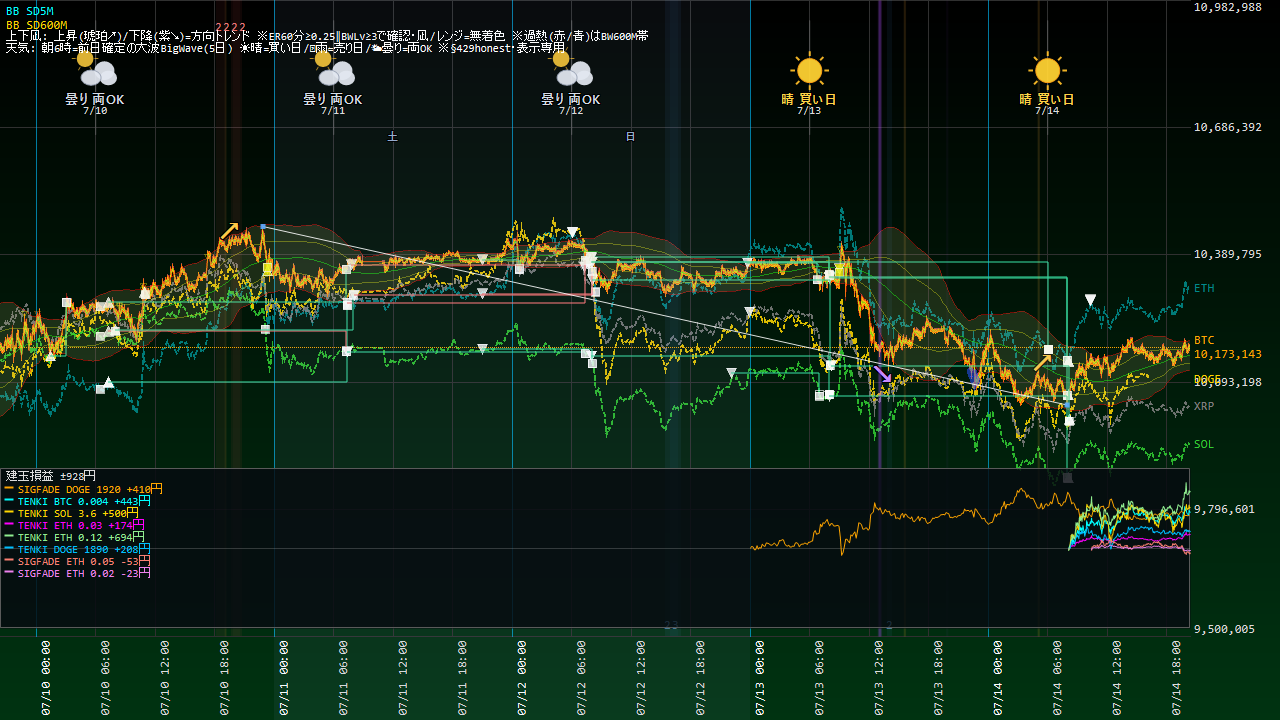
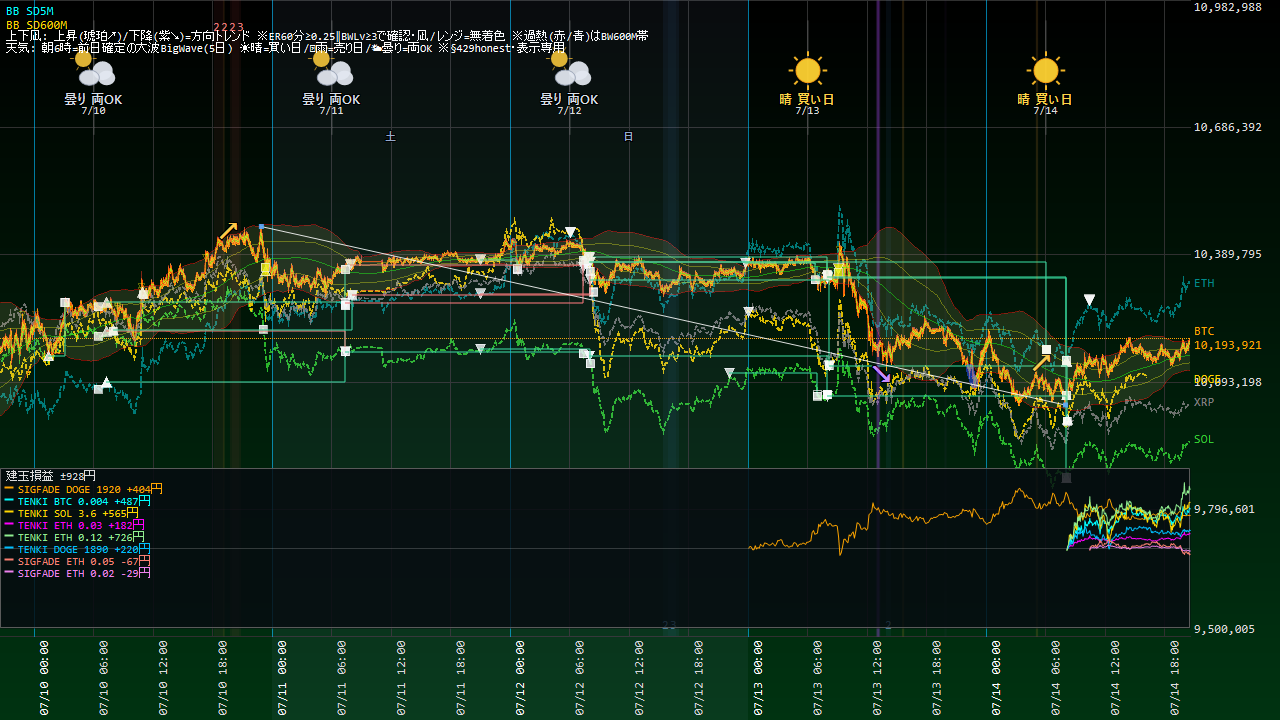
Coin100S 運用状況更新 07-14 20:35

diff --git a/coin100s-795hc4jfv8/status.html b/coin100s-795hc4jfv8/status.html
@@ -14,23 +14,23 @@ a{color:#60a5fa;text-decoration:none} a:hover{text-decoration:underline}
 .meta{color:#94a3b8;font-size:13px}</style>
 <script>setTimeout(function(){location.replace(location.pathname+"?t="+Date.now());},300000);</script></head><body>
 <h1>Coin100S 運用状況</h1>
-<p class="meta">スナップショット: 2026-07-14 20:28:47 / ページ生成: 2026-07-14 20:29:06(自動リロード・最新化) / <a href="index.html">目次へ</a></p>
+<p class="meta">スナップショット: 2026-07-14 20:34:47 / ページ生成: 2026-07-14 20:35:07(自動リロード・最新化) / <a href="index.html">目次へ</a></p>
 <div class="cards">
 <div class="card">建玉数<div class="v">8</div></div>
 <div class="card">本日損益<div class="v pos">+5,341円</div></div>
-<div class="card">評価損益<div class="v pos">+2,511円</div></div>
+<div class="card">評価損益<div class="v pos">+2,506円</div></div>
 </div>
 <h2>資産推移(直近30日)</h2>
-<img src="status_equity.png?t=2029" alt="equity">
+<img src="status_equity.png?t=2035" alt="equity">
 <h2>取引チャート(直近24h)</h2>
-<img src="status_chart.png?t=2029" alt="chart">
+<img src="status_chart.png?t=2035" alt="chart">
 <h2>建玉一覧</h2>
-<table><tr><th>銘柄</th><th>側</th><th>数量</th><th>建値</th><th>含損益</th><th>レッグ</th></tr><tr><td>BTC_JPY</td><td>BUY</td><td>0.004</td><td>@10,063,547</td><td>+501円</td><td>TENKI5D_REV_BTC</td></tr><tr><td>DOGE_JPY</td><td>BUY</td><td>1890</td><td>@12</td><td>+206円</td><td>TENKI5D_REV_DOGE</td></tr><tr><td>DOGE_JPY</td><td>SELL</td><td>1920</td><td>@12</td><td>+412円</td><td>SIGFADE_DOGE</td></tr><tr><td>ETH_JPY</td><td>SELL</td><td>0.02</td><td>@290,234</td><td>-36円</td><td>SIGFADE_ETH</td></tr><tr><td>ETH_JPY</td><td>SELL</td><td>0.05</td><td>@290,315</td><td>-86円</td><td>SIGFADE_ETH</td></tr><tr><td>ETH_JPY</td><td>BUY</td><td>0.12</td><td>@285,611</td><td>+768円</td><td>TENKI5D_REV_ETH</td></tr><tr><td>ETH_JPY</td><td>BUY</td><td>0.03</td><td>@285,605</td><td>+192円</td><td>TENKI5D_REV_ETH</td></tr><tr><td>SOL_JPY</td><td>BUY</td><td>3.6</td><td>@12,083</td><td>+554円</td><td>TENKI5D_REV_SOL</td></tr></table>
+<table><tr><th>銘柄</th><th>側</th><th>数量</th><th>建値</th><th>含損益</th><th>レッグ</th></tr><tr><td>BTC_JPY</td><td>BUY</td><td>0.004</td><td>@10,063,547</td><td>+525円</td><td>TENKI5D_REV_BTC</td></tr><tr><td>DOGE_JPY</td><td>BUY</td><td>1890</td><td>@12</td><td>+206円</td><td>TENKI5D_REV_DOGE</td></tr><tr><td>DOGE_JPY</td><td>SELL</td><td>1920</td><td>@12</td><td>+412円</td><td>SIGFADE_DOGE</td></tr><tr><td>ETH_JPY</td><td>SELL</td><td>0.02</td><td>@290,234</td><td>-29円</td><td>SIGFADE_ETH</td></tr><tr><td>ETH_JPY</td><td>SELL</td><td>0.05</td><td>@290,315</td><td>-68円</td><td>SIGFADE_ETH</td></tr><tr><td>ETH_JPY</td><td>BUY</td><td>0.12</td><td>@285,611</td><td>+726円</td><td>TENKI5D_REV_ETH</td></tr><tr><td>ETH_JPY</td><td>BUY</td><td>0.03</td><td>@285,605</td><td>+181円</td><td>TENKI5D_REV_ETH</td></tr><tr><td>SOL_JPY</td><td>BUY</td><td>3.6</td><td>@12,083</td><td>+554円</td><td>TENKI5D_REV_SOL</td></tr></table>
 <h2>実現決済履歴(直近15件・OrderId単位)</h2>
 <table><tr><th>決済時刻</th><th>レッグ</th><th>銘柄</th><th>実現損益</th></tr><tr><td>07-14 08:15</td><td>TENKI5D_REV_DOGE</td><td>DOGE</td><td class="pos">+267円</td></tr><tr><td>07-14 08:06</td><td>TENKI5D_REV_SOL</td><td>SOL</td><td class="pos">+1,011円</td></tr><tr><td>07-14 08:06</td><td>TENKI5D_REV_BTC</td><td>BTC</td><td class="pos">+819円</td></tr><tr><td>07-14 08:06</td><td>TENKI5D_REV_ETH</td><td>ETH</td><td class="pos">+826円</td></tr><tr><td>07-14 06:08</td><td>RELVALP_SELL</td><td>ETH</td><td class="pos">+89円</td></tr><tr><td>07-14 06:08</td><td>RELVALP_SELL</td><td>ETH</td><td class="pos">+357円</td></tr><tr><td>07-14 06:08</td><td>RELVALP_SELL</td><td>ETH</td><td class="pos">+314円</td></tr><tr><td>07-14 06:08</td><td>RELVALP_SELL</td><td>ETH</td><td class="pos">+328円</td></tr><tr><td>07-14 06:08</td><td>RELVALP_SELL</td><td>ETH</td><td class="pos">+331円</td></tr><tr><td>07-14 06:08</td><td>RELVALP_SELL</td><td>ETH</td><td class="pos">+337円</td></tr><tr><td>07-14 06:08</td><td>RELVALP_SELL</td><td>ETH</td><td class="pos">+329円</td></tr><tr><td>07-14 06:08</td><td>RELVALP_SELL</td><td>ETH</td><td class="pos">+333円</td></tr><tr><td>07-13 09:06</td><td>BW10M3_5M</td><td>BTC</td><td class="pos">+17円</td></tr><tr><td>07-13 08:12</td><td>TENKI5D_REV_DOGE</td><td>DOGE</td><td class="pos">+408円</td></tr><tr><td>07-13 08:03</td><td>TENKI5D_REV_SOL</td><td>SOL</td><td class="pos">+15円</td></tr></table>
 <h2>本取引日の実取引(6:00起点)</h2>
 <table><tr><th>時刻</th><th>種別</th><th>側</th><th>銘柄</th><th>数量</th><th>指値</th></tr><tr><td>06:08:03</td><td>決済</td><td>BUY</td><td>ETH_JPY</td><td>0.05</td><td>287,361</td></tr><tr><td>06:08:04</td><td>決済</td><td>BUY</td><td>ETH_JPY</td><td>0.05</td><td>287,361</td></tr><tr><td>06:08:05</td><td>決済</td><td>BUY</td><td>ETH_JPY</td><td>0.05</td><td>287,365</td></tr><tr><td>06:08:07</td><td>決済</td><td>BUY</td><td>ETH_JPY</td><td>0.05</td><td>287,366</td></tr><tr><td>06:08:09</td><td>決済</td><td>BUY</td><td>ETH_JPY</td><td>0.05</td><td>287,370</td></tr><tr><td>06:08:11</td><td>決済</td><td>BUY</td><td>ETH_JPY</td><td>0.05</td><td>287,370</td></tr><tr><td>06:08:12</td><td>決済</td><td>BUY</td><td>ETH_JPY</td><td>0.05</td><td>287,372</td></tr><tr><td>06:08:13</td><td>決済</td><td>BUY</td><td>ETH_JPY</td><td>0.05</td><td>287,372</td></tr><tr><td>06:08:14</td><td>決済</td><td>BUY</td><td>ETH_JPY</td><td>0.04</td><td>287,374</td></tr><tr><td>06:08:16</td><td>決済</td><td>BUY</td><td>ETH_JPY</td><td>0.01</td><td>287,376</td></tr><tr><td>06:08:19</td><td>決済</td><td>BUY</td><td>ETH_JPY</td><td>0.05</td><td>287,378</td></tr><tr><td>06:08:20</td><td>決済</td><td>BUY</td><td>ETH_JPY</td><td>0.05</td><td>287,380</td></tr><tr><td>06:08:21</td><td>決済</td><td>BUY</td><td>ETH_JPY</td><td>0.04</td><td>287,380</td></tr><tr><td>06:08:22</td><td>決済</td><td>BUY</td><td>ETH_JPY</td><td>0.01</td><td>287,379</td></tr><tr><td>06:08:23</td><td>決済</td><td>BUY</td><td>ETH_JPY</td><td>0.01</td><td>287,379</td></tr><tr><td>08:06:03</td><td>決済</td><td>BUY</td><td>ETH_JPY</td><td>0.13</td><td>286,547</td></tr><tr><td>08:06:03</td><td>決済</td><td>BUY</td><td>BTC_JPY</td><td>0.003</td><td>10,092,690</td></tr><tr><td>08:06:03</td><td>決済</td><td>BUY</td><td>SOL_JPY</td><td>3</td><td>12,121</td></tr><tr><td>08:07:03</td><td>新規</td><td>BUY</td><td>BTC_JPY</td><td>0.004</td><td>10,070,303</td></tr><tr><td>08:07:03</td><td>新規</td><td>BUY</td><td>ETH_JPY</td><td>0.15</td><td>285,781</td></tr><tr><td>08:07:03</td><td>新規</td><td>BUY</td><td>SOL_JPY</td><td>3.6</td><td>12,091</td></tr><tr><td>08:15:03</td><td>決済</td><td>BUY</td><td>DOGE_JPY</td><td>1590</td><td>12</td></tr><tr><td>08:16:03</td><td>新規</td><td>BUY</td><td>DOGE_JPY</td><td>1890</td><td>12</td></tr><tr><td>10:24:03</td><td>新規</td><td>SELL</td><td>ETH_JPY</td><td>0.07</td><td>290,189</td></tr></table>
 <h2>現在レジーム(3軸・§570c)</h2>
-<ul><li>アルト対BTC 5日: <b>-134bps</b>(アルト劣後=RELVAL順風)</li><li>BTC ER240m: <b>0.045</b>(閾値0.25→レンジ(fade順風/BWTRD逆風))</li><li>BTC実現ボラ240m: <b>3.31</b> bps/分</li></ul>
+<ul><li>アルト対BTC 5日: <b>-134bps</b>(アルト劣後=RELVAL順風)</li><li>BTC ER240m: <b>0.060</b>(閾値0.25→レンジ(fade順風/BWTRD逆風))</li><li>BTC実現ボラ240m: <b>3.34</b> bps/分</li></ul>
 <hr><p class="meta">自動生成: tools/web_publish.py(§580・読み取り専用)。売買判断はアプリ本体。</p>
 </body></html>

diff --git a/coin100s-795hc4jfv8/index.html b/coin100s-795hc4jfv8/index.html
@@ -14,16 +14,16 @@ a{color:#60a5fa;text-decoration:none} a:hover{text-decoration:underline}
 .meta{color:#94a3b8;font-size:13px}</style>
 <script>setTimeout(function(){location.replace(location.pathname+"?t="+Date.now());},300000);</script></head><body>
 <h1>Coin100S ダッシュボード</h1>
-<p class="meta">スナップショット: 2026-07-14 20:28:47(自動リロード・最新化)</p>
+<p class="meta">スナップショット: 2026-07-14 20:34:47(自動リロード・最新化)</p>
 <div class="cards">
 <div class="card">建玉数<div class="v">8</div></div>
 <div class="card">本日損益<div class="v pos">+5,341円</div></div>
-<div class="card">評価損益<div class="v pos">+2,511円</div></div>
+<div class="card">評価損益<div class="v pos">+2,506円</div></div>
 </div>
 <h2>現在の建玉</h2>
-<table><tr><th>銘柄</th><th>側</th><th>数量</th><th>建値</th><th>含損益</th><th>レッグ</th></tr><tr><td>BTC_JPY</td><td>BUY</td><td>0.004</td><td>@10,063,547</td><td>+501円</td><td>TENKI5D_REV_BTC</td></tr><tr><td>DOGE_JPY</td><td>BUY</td><td>1890</td><td>@12</td><td>+206円</td><td>TENKI5D_REV_DOGE</td></tr><tr><td>DOGE_JPY</td><td>SELL</td><td>1920</td><td>@12</td><td>+412円</td><td>SIGFADE_DOGE</td></tr><tr><td>ETH_JPY</td><td>SELL</td><td>0.02</td><td>@290,234</td><td>-36円</td><td>SIGFADE_ETH</td></tr><tr><td>ETH_JPY</td><td>SELL</td><td>0.05</td><td>@290,315</td><td>-86円</td><td>SIGFADE_ETH</td></tr><tr><td>ETH_JPY</td><td>BUY</td><td>0.12</td><td>@285,611</td><td>+768円</td><td>TENKI5D_REV_ETH</td></tr><tr><td>ETH_JPY</td><td>BUY</td><td>0.03</td><td>@285,605</td><td>+192円</td><td>TENKI5D_REV_ETH</td></tr><tr><td>SOL_JPY</td><td>BUY</td><td>3.6</td><td>@12,083</td><td>+554円</td><td>TENKI5D_REV_SOL</td></tr></table>
+<table><tr><th>銘柄</th><th>側</th><th>数量</th><th>建値</th><th>含損益</th><th>レッグ</th></tr><tr><td>BTC_JPY</td><td>BUY</td><td>0.004</td><td>@10,063,547</td><td>+525円</td><td>TENKI5D_REV_BTC</td></tr><tr><td>DOGE_JPY</td><td>BUY</td><td>1890</td><td>@12</td><td>+206円</td><td>TENKI5D_REV_DOGE</td></tr><tr><td>DOGE_JPY</td><td>SELL</td><td>1920</td><td>@12</td><td>+412円</td><td>SIGFADE_DOGE</td></tr><tr><td>ETH_JPY</td><td>SELL</td><td>0.02</td><td>@290,234</td><td>-29円</td><td>SIGFADE_ETH</td></tr><tr><td>ETH_JPY</td><td>SELL</td><td>0.05</td><td>@290,315</td><td>-68円</td><td>SIGFADE_ETH</td></tr><tr><td>ETH_JPY</td><td>BUY</td><td>0.12</td><td>@285,611</td><td>+726円</td><td>TENKI5D_REV_ETH</td></tr><tr><td>ETH_JPY</td><td>BUY</td><td>0.03</td><td>@285,605</td><td>+181円</td><td>TENKI5D_REV_ETH</td></tr><tr><td>SOL_JPY</td><td>BUY</td><td>3.6</td><td>@12,083</td><td>+554円</td><td>TENKI5D_REV_SOL</td></tr></table>
 <p><a href="status.html"><b>▶ 運用状況の詳細(チャート・本日の取引・レジーム)</b></a></p>
 <h2>日報一覧</h2>
 <table><tr><th>取引日</th><th>実現損益</th><th>総括</th></tr><tr><td><a href='reports/20260713_Coin100S日報.html'>2026-07-13</a></td><td class="pos">+0円</td><td class='meta'>実取引: 新規5件/決済8件、実現損益 +0円。シグナル却下1件（最多: BW10M3_5M／トレンド方向ゲート(N分傾き上と不一致=逆張り方向のfade禁止)）。警告/孤児/エラーなし＝健全。</td></tr><tr><td><a href='reports/20260712_Coin100S日報.html'>2026-07-12</a></td><td class="pos">+0円</td><td class='meta'>実取引: 新規14件/決済6件、実現損益 +0円。シグナル却下5件（最多: BW10M3_5M／トレンド方向ゲート(N分傾き下と不一致=逆張り方向のfade禁止)）。⚠警告/エラー 2件（要確認）。</td></tr><tr><td><a href='reports/20260711_Coin100S日報.html'>2026-07-11</a></td><td class="pos">+0円</td><td class='meta'>実取引: 新規7件/決済6件、実現損益 +0円。⚠警告/エラー 52件（要確認）。</td></tr><tr><td><a href='reports/20260710_Coin100S日報.html'>2026-07-10</a></td><td class="pos">+0円</td><td class='meta'>実取引: 新規7件/決済6件、実現損益 +0円。シグナル却下6件（最多: BW10M3_5M／トレンド方向ゲート(N分傾き上と不一致=逆張り方向のfade禁止)）。警告/孤児/エラーなし＝健全。</td></tr><tr><td><a href='reports/20260709_Coin100S日報.html'>2026-07-09</a></td><td class="pos">+0円</td><td class='meta'>実取引: 新規8件/決済3件、実現損益 +0円。シグナル却下5件（最多: SD120M_5M／トレンド方向ゲート(N分傾き上と不一致=逆張り方向のfade禁止)）。警告/孤児/エラーなし＝健全。</td></tr><tr><td><a href='reports/20260708_Coin100S日報.html'>2026-07-08</a></td><td class="pos">+0円</td><td class='meta'>実取引: 新規2件/決済4件、実現損益 +0円。シグナル却下4件（最多: SD120M_5M／トレンド方向ゲート(N分傾き下と不一致=逆張り方向のfade禁止)）。警告/孤児/エラーなし＝健全。</td></tr><tr><td><a href='reports/20260707_Coin100S日報.html'>2026-07-07</a></td><td class="pos">+0円</td><td class='meta'>実取引: 新規8件/決済6件、実現損益 +0円。シグナル却下4件（最多: SD120M_5M／トレンド方向ゲート(N分傾き上と不一致=逆張り方向のfade禁止)）。⚠警告/エラー 258件（要確認）。</td></tr><tr><td><a href='reports/20260706_Coin100S日報.html'>2026-07-06</a></td><td class="pos">+0円</td><td class='meta'>実取引: 新規9件/決済6件、実現損益 +0円。シグナル却下9件（最多: SD120M_5M／トレンド方向ゲート(N分傾き上と不一致=逆張り方向のfade禁止)）。⚠警告/エラー 150件（要確認）。</td></tr><tr><td><a href='reports/20260705_Coin100S日報.html'>2026-07-05</a></td><td class="pos">+0円</td><td class='meta'>実取引: 新規8件/決済3件、実現損益 +0円。⚠警告/エラー 2件（要確認）。</td></tr><tr><td><a href='reports/20260704_Coin100S日報.html'>2026-07-04</a></td><td class="pos">+0円</td><td class='meta'>実取引: 新規1件/決済2件、実現損益 +0円。⚠警告/エラー 2件（要確認）。</td></tr><tr><td><a href='reports/20260703_Coin100S日報.html'>2026-07-03</a></td><td class="pos">+0円</td><td class='meta'>実取引: 新規5件/決済4件、実現損益 +0円。⚠警告/エラー 15件（要確認）。</td></tr><tr><td><a href='reports/20260702_Coin100S日報.html'>2026-07-02</a></td><td class="pos">+0円</td><td class='meta'>実取引: 新規7件/決済5件、実現損益 +0円。シグナル却下17件（最多: SD120M_5M／トレンド方向ゲート(N分傾き上と不一致=逆張り方向のfade禁止)）。⚠警告/エラー 26件（要確認）。</td></tr><tr><td><a href='reports/20260701_Coin100S日報.html'>2026-07-01</a></td><td class="pos">+0円</td><td class='meta'>実取引: 新規14件/決済8件、実現損益 +0円。シグナル却下14件（最多: SD120M_5M／ボラ軸ゲート(SDN%&amp;gt;N%=高ボラ/荒れレンジ)）。⚠警告/エラー 2件（要確認）。</td></tr><tr><td><a href='reports/20260630_Coin100S日報.html'>2026-06-30</a></td><td class="pos">+0円</td><td class='meta'>実取引: 新規0件/決済1件、実現損益 +0円。シグナル却下29件（最多: 微5M／当日枠N）。警告/孤児/エラーなし＝健全。</td></tr></table>
-<hr><p class="meta">更新: 2026-07-14 20:29:06 / 自動生成: tools/web_publish.py(§580)</p>
+<hr><p class="meta">更新: 2026-07-14 20:35:07 / 自動生成: tools/web_publish.py(§580)</p>
 </body></html>
